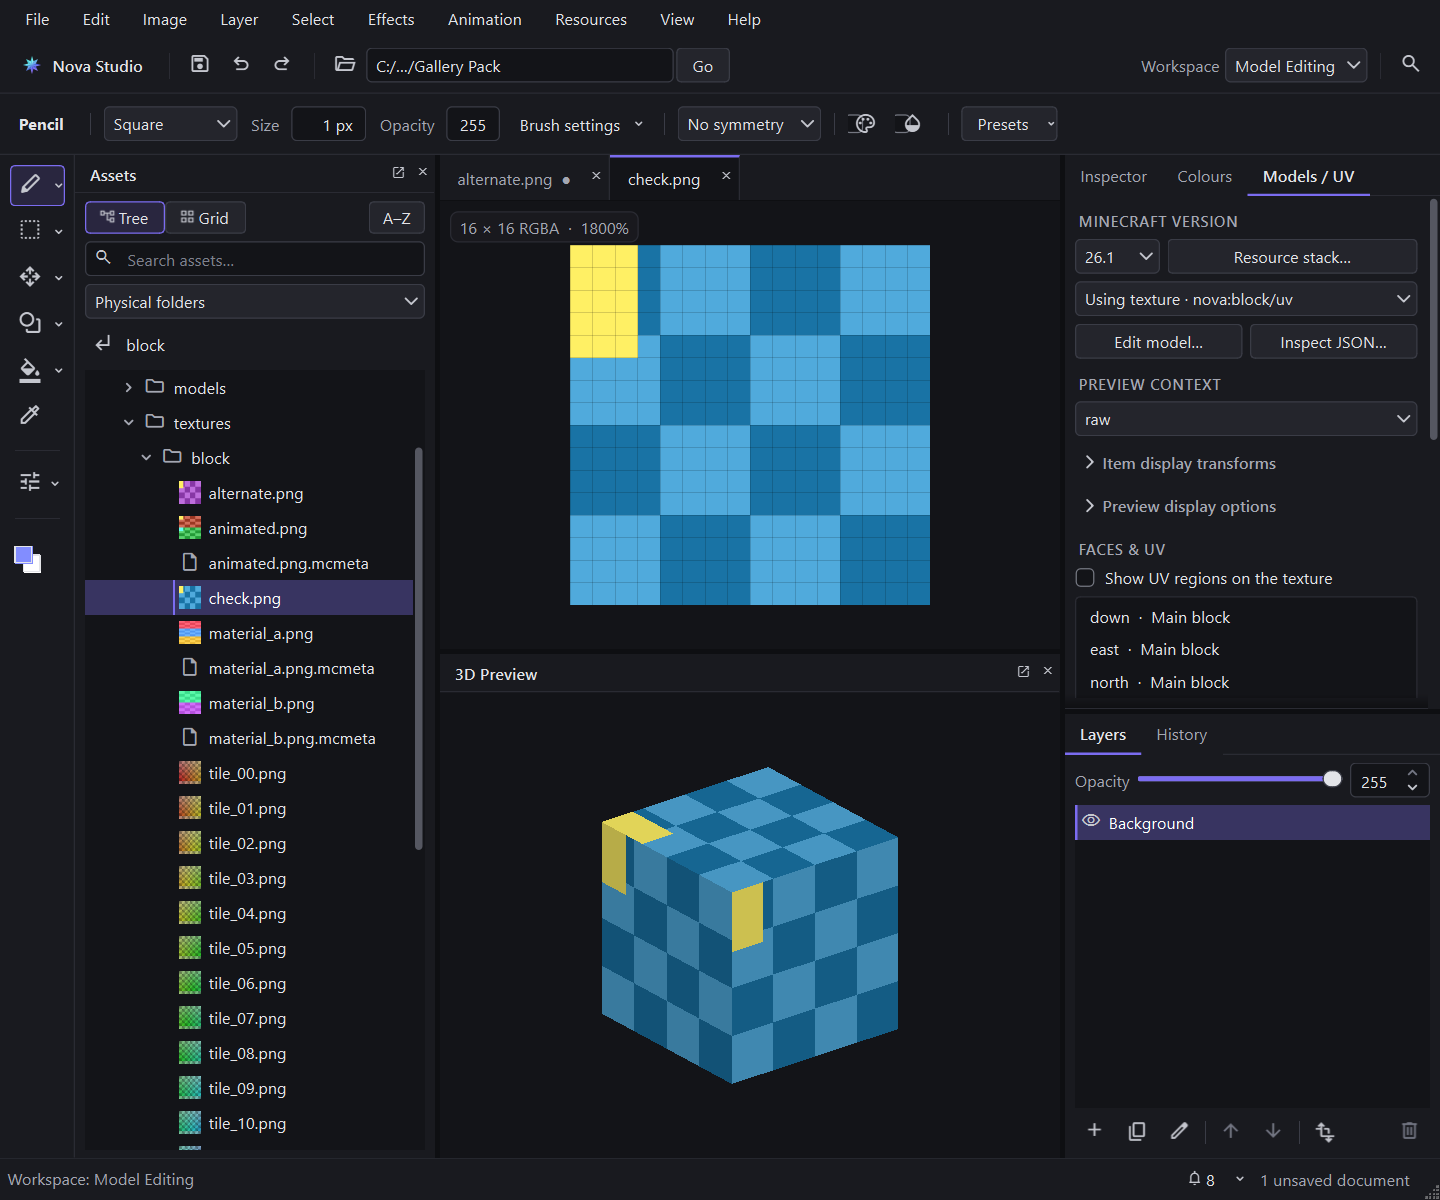
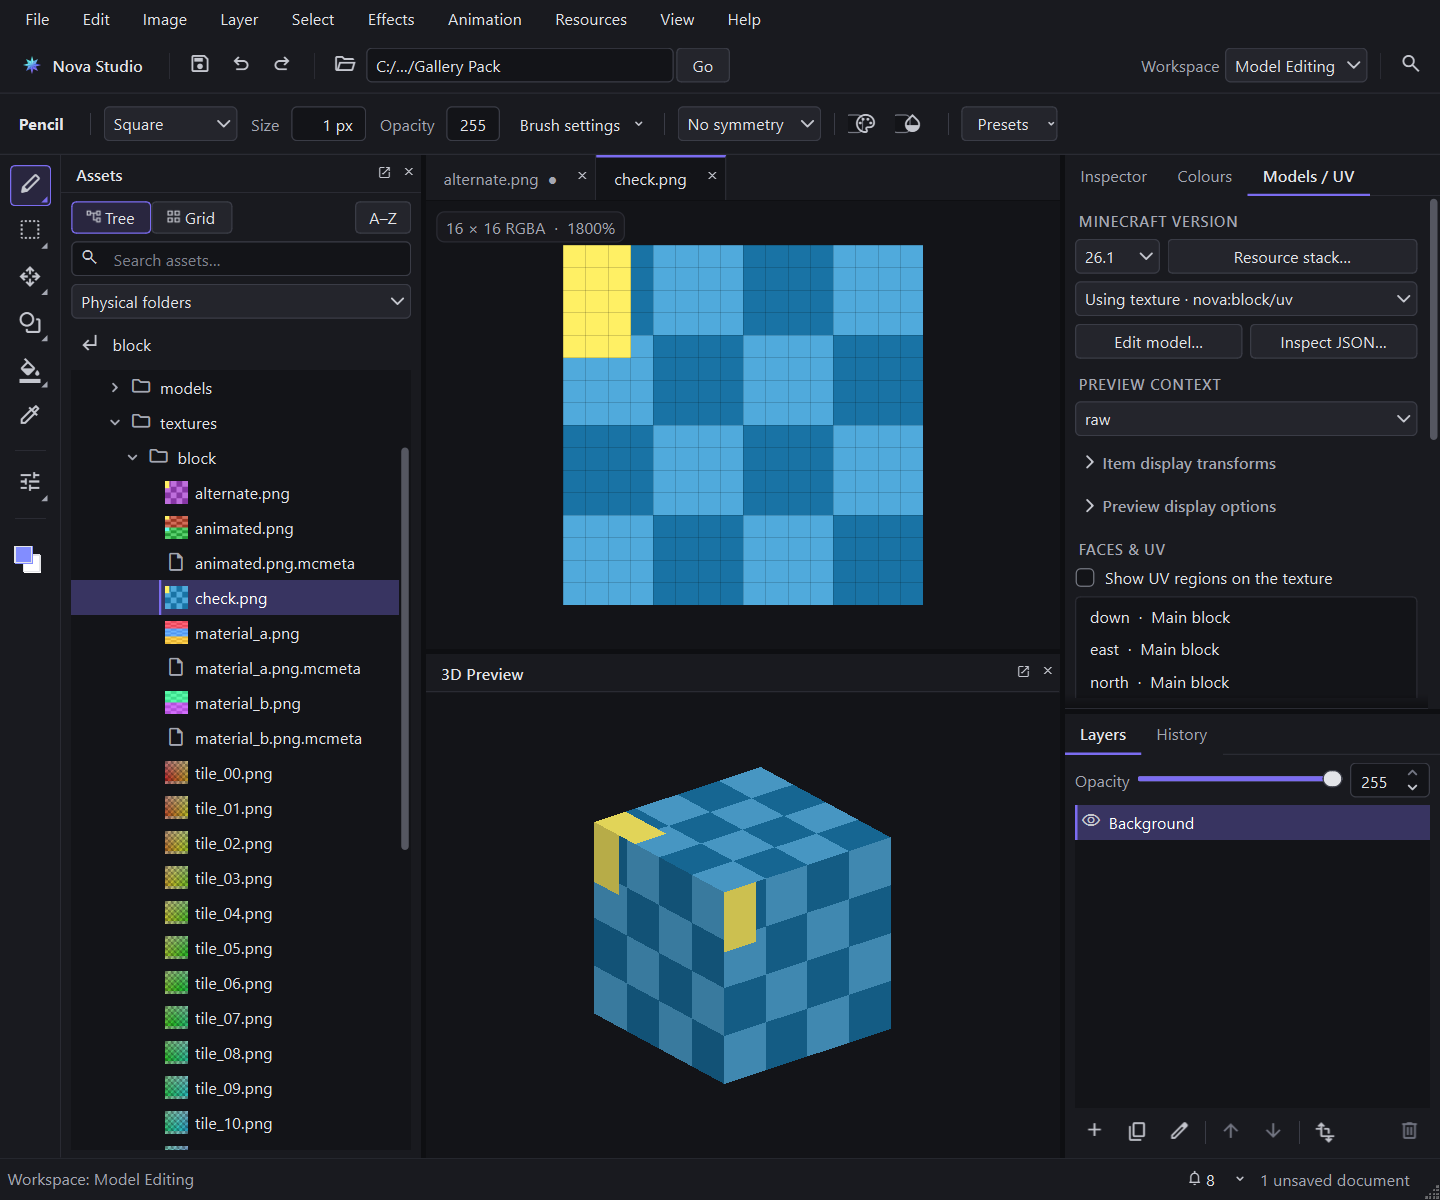
Mark grouped rail tools with corner triangles; slider-only popovers
Grouped tools and Effects are the same square as every other rail button,
marked by a small corner triangle instead of a split arrow segment; press and
hold, right-click, Alt+Down or the menu key opens the group. Every row of the
brush and onion-skin settings is a slider with an unstepped value box. Batch
output settings indent under their radio choice, Welcome's View all is a link,
and recent-pack paths abbreviate the home folder.

diff --git a/src/ui/tools.cpp b/src/ui/tools.cpp
@@ -177,6 +177,40 @@ void ToolState::applyBrushPreset(Tool t, const QJsonObject &p) {
 
 // ---------------------------------------------------------------- tool box
 namespace {
+// A rail button whose menu holds more tools. As in Photoshop, a small triangle in the
+// bottom-right corner marks it instead of a separate arrow segment, so every rail button is
+// the same square. Press and hold, right-click, Alt+Down or the menu key opens the menu.
+class ToolGroupButton : public QToolButton {
+  public:
+    using QToolButton::QToolButton;
+
+  protected:
+    void paintEvent(QPaintEvent *e) override {
+        QToolButton::paintEvent(e);
+        if (!menu())
+            return;
+        const auto &t = ui::current();
+        QPainter p(this);
+        p.setRenderHint(QPainter::Antialiasing);
+        p.setPen(Qt::NoPen);
+        p.setBrush(!isEnabled() ? t.disabled : isChecked() ? t.accent : t.muted);
+        const QPointF corner = QRectF(rect()).bottomRight() - QPointF(ui::SpaceXS + 1, ui::SpaceXS + 1);
+        const qreal size = 5;
+        p.drawPolygon(QPolygonF{corner, corner - QPointF(size, 0), corner - QPointF(0, size)});
+    }
+    void contextMenuEvent(QContextMenuEvent *e) override {
+        if (!menu())
+            return QToolButton::contextMenuEvent(e);
+        showMenu();
+    }
+    void keyPressEvent(QKeyEvent *e) override {
+        if (menu() && (e->key() == Qt::Key_Menu || (e->key() == Qt::Key_Down && e->modifiers() & Qt::AltModifier))) {
+            showMenu();
+            return;
+        }
+        QToolButton::keyPressEvent(e);
+    }
+};
 // Foreground/background chip at the foot of the tool strip (fast colour access).
 class ColorChip : public QWidget {
     ToolState *state;
@@ -258,7 +292,7 @@ ToolBox::ToolBox(ToolState *s, QWidget *parent) : QToolBar("Tools", parent), sta
         connect(a, &QAction::triggered, this, [this, t = info.tool] { state->setTool(t); });
         auto &button = groups[info.group];
         if (!button) {
-            button = new QToolButton(this);
+            button = new ToolGroupButton(this);
             button->setObjectName("toolGroup-" + info.group);
             button->setPopupMode(QToolButton::DelayedPopup);
             button->setAutoRaise(true);
@@ -268,14 +302,11 @@ ToolBox::ToolBox(ToolState *s, QWidget *parent) : QToolBar("Tools", parent), sta
         }
         button->menu()->addAction(a);
     }
-    for (auto button : std::as_const(groups)) {
-        if (button->menu()->actions().size() > 1)
-            button->setPopupMode(QToolButton::MenuButtonPopup);
-        else
+    for (auto button : std::as_const(groups))
+        if (button->menu()->actions().size() < 2)
             button->setMenu(nullptr);
-    }
     addSeparator();
-    effectsButton = new QToolButton(this);
+    effectsButton = new ToolGroupButton(this);
     effectsButton->setObjectName("effectsButton");
     effectsButton->setText("Effects");
     effectsButton->setProperty("novaIcon", "effects");
@@ -587,7 +618,7 @@ QWidget *ToolOptionsBar::paintPage() {
     form->setContentsMargins(ui::PanelPadding, ui::PanelPadding, ui::PanelPadding, ui::PanelPadding);
     form->setHorizontalSpacing(ui::SpaceXL);
     form->setVerticalSpacing(ui::SpaceL);
-    form->addRow("Height", height);
+    form->addRow("Height", ui::sliderField(height, "Height"));
     form->addRow("Hardness", ui::sliderField(hardness, "Hardness"));
     form->addRow("Spacing", ui::sliderField(spacing, "Spacing"));
     form->addRow("Smoothing", ui::sliderField(smoothing, "Smoothing"));

diff --git a/src/ui/theme.cpp b/src/ui/theme.cpp
@@ -49,6 +49,8 @@ QWidget *sliderField(QSpinBox *value, const QString &label) {
     slider->setMinimumWidth(96);
     value->setAccessibleName(label);
     value->setFixedWidth(SettingsValueWidth);
+    // The slider is the pointer control; the value box takes typing, arrows and the wheel.
+    value->setButtonSymbols(QAbstractSpinBox::NoButtons);
     row->addWidget(slider, 1);
     row->addWidget(value);
     field->setFocusProxy(value);
@@ -262,7 +264,6 @@ QString styleSheet(const Tokens &t) {
         "QToolBar#toolOptions QLabel#paintToolName,QToolBar#toolOptions QLabel#toolOptionsName{color:@text;font-weight:600;padding-left:2px;padding-right:6px}"
         "QToolBar#toolBox{border-bottom:0;border-right:1px solid @border;padding:@stripPadV @stripPadH}"
         "QToolBar#toolBox QToolButton{padding:@toolPad}"
-        "QToolBar#toolBox QToolButton[popupMode=\"1\"]{padding-right:@arrowReserve}"
         "QToolBar::separator{background:@border;width:1px;height:1px;margin:@sepMinor @sepMajor}"
         "QToolBar#toolBox::separator{margin:@sepTool @sepMinor}"
         "QStatusBar{background:@window;border-top:1px solid @border;color:@muted}"
@@ -325,6 +326,13 @@ QString styleSheet(const Tokens &t) {
         "QPushButton[role=\"icon\"]{padding:4px;min-width:18px;border-color:transparent;background:transparent}"
         "QPushButton[role=\"icon\"]:hover{background:@raised;border-color:transparent}"
         "QPushButton[role=\"icon\"]:disabled{background:transparent;border-color:transparent}"
+        // Link: a quiet text command beside a heading (no frame, no menu arrow). accentHover is
+        // the higher-contrast accent in both themes.
+        "QPushButton[role=\"link\"]{padding:2px 6px;border-color:transparent;background:transparent;color:@accentHover}"
+        "QPushButton[role=\"link\"]:hover{background:@accentMuted;border-color:transparent}"
+        "QPushButton[role=\"link\"]:focus{border-color:@accent}"
+        "QPushButton[role=\"link\"]:disabled{color:@disabled;background:transparent;border-color:transparent}"
+        "QPushButton[role=\"link\"]::menu-indicator{image:none;width:0}"
         "QPushButton::menu-indicator{subcontrol-origin:padding;subcontrol-position:center right;width:10px;"
         "right:-4px}"
         "QToolButton{border:@btnBorder solid transparent;border-radius:@rS;padding:@btnPad;background:transparent;"
@@ -339,9 +347,9 @@ QString styleSheet(const Tokens &t) {
         "QToolButton[popupMode=\"2\"]{padding-right:18px}"
         "QToolButton[popupMode=\"2\"]::menu-indicator{subcontrol-origin:padding;subcontrol-position:center right;"
         "right:4px;width:10px;height:10px}"
-        "QToolBar#toolBox QToolButton[popupMode=\"2\"]{padding:@toolPad;padding-right:@arrowReserve}"
-        "QToolBar#toolBox QToolButton[popupMode=\"2\"]::menu-indicator{subcontrol-origin:padding;"
-        "subcontrol-position:center right;right:2px;width:10px;height:10px}"
+        // Rail buttons mark a menu with a corner triangle (ToolGroupButton), not an arrow.
+        "QToolBar#toolBox QToolButton[popupMode=\"2\"]{padding:@toolPad}"
+        "QToolBar#toolBox QToolButton::menu-indicator{image:none;width:0;height:0}"
         "QToolButton[role=\"disclosure\"]{border:0;padding:4px 2px;font-weight:600;color:@muted}"
         "QToolButton[role=\"disclosure\"]:hover{color:@text;background:transparent}"
         "QToolButton[role=\"disclosure\"]:checked{background:transparent;color:@text}"

diff --git a/src/ui/timeline.cpp b/src/ui/timeline.cpp
@@ -262,19 +262,14 @@ TimelinePanel::TimelinePanel(DocumentSession *s, QWidget *parent) : QWidget(pare
     onionForm->setContentsMargins(ui::PanelPadding, ui::PanelPadding, ui::PanelPadding, ui::PanelPadding);
     onionForm->setHorizontalSpacing(ui::SpaceXL); onionForm->setVerticalSpacing(ui::SpaceL);
     auto onion = new QCheckBox("Show adjacent frames"); onion->setObjectName("onionEnabled"); onionForm->addRow(onion);
-    auto previous = new QSpinBox; previous->setRange(0, 8); previous->setValue(1); previous->setObjectName("onionPrevious"); onionForm->addRow("Previous frames", previous);
-    auto next = new QSpinBox; next->setRange(0, 8); next->setValue(1); next->setObjectName("onionNext"); onionForm->addRow("Next frames", next);
+    auto previous = new QSpinBox; previous->setRange(0, 8); previous->setValue(1); previous->setObjectName("onionPrevious"); onionForm->addRow("Previous frames", ui::sliderField(previous, "Onion skin previous frames"));
+    auto next = new QSpinBox; next->setRange(0, 8); next->setValue(1); next->setObjectName("onionNext"); onionForm->addRow("Next frames", ui::sliderField(next, "Onion skin next frames"));
     auto opacity = new QSpinBox; opacity->setRange(1, 100); opacity->setValue(25); opacity->setSuffix("%"); opacity->setObjectName("onionOpacity");
     auto opacityField = ui::sliderField(opacity, "Onion skin opacity");
     onionForm->addRow("Opacity", opacityField);
-    for (int row : {1, 2}) {
-        auto field = onionForm->itemAt(row, QFormLayout::FieldRole);
-        field->widget()->setFixedWidth(ui::SettingsValueWidth);
-        field->setAlignment(Qt::AlignRight);
-    }
     auto tint = new QCheckBox("Tint adjacent frames"); tint->setChecked(true); onionForm->addRow(tint);
     const auto syncOnionControls = [=](bool enabled) {
-        for (QWidget *control : std::initializer_list<QWidget *>{previous, next, opacityField, tint}) {
+        for (QWidget *control : std::initializer_list<QWidget *>{previous->parentWidget(), next->parentWidget(), opacityField, tint}) {
             control->setEnabled(enabled);
             if (auto label = onionForm->labelForField(control))
                 label->setEnabled(enabled);

diff --git a/src/ui/window.cpp b/src/ui/window.cpp
@@ -77,8 +77,8 @@ class RecentPackDelegate final : public QStyledItemDelegate {
         p->setFont(option.font);
         p->setPen(t.muted);
         p->drawText(text.adjusted(0, line + ui::SpaceXS, 0, 0), Qt::AlignVCenter,
-                    QFontMetrics(option.font).elidedText(QDir::toNativeSeparators(index.data(Qt::UserRole).toString()),
-                                                        Qt::ElideMiddle, text.width()));
+                    QFontMetrics(option.font).elidedText(index.data(Qt::UserRole + 2).toString(), Qt::ElideMiddle,
+                                                        text.width()));
         p->restore();
     }
 };
@@ -102,9 +102,15 @@ class EditorTabs : public QTabWidget {
                 continue;
             const auto path = action->text();
             const auto name = QFileInfo(path).fileName();
-            auto item = new QListWidgetItem(name + '\n' + QDir::toNativeSeparators(path), recentPacks);
+            // The home folder reads as "~", so the part of the path that differs stays visible.
+            auto shown = QDir::toNativeSeparators(path);
+            const auto home = QDir::toNativeSeparators(QDir::homePath());
+            if (shown.startsWith(home + QDir::separator(), Qt::CaseInsensitive))
+                shown = '~' + shown.mid(home.size());
+            auto item = new QListWidgetItem(name + '\n' + shown, recentPacks);
             item->setData(Qt::UserRole, path);
             item->setData(Qt::UserRole + 1, name);
+            item->setData(Qt::UserRole + 2, shown);
             item->setToolTip("Open pack: " + QDir::toNativeSeparators(path));
             item->setSizeHint({0, 2 * recentPacks->fontMetrics().lineSpacing() + 2 * ui::SpaceL + 2 * ui::SpaceXS});
         }
@@ -234,6 +240,7 @@ class EditorTabs : public QTabWidget {
         recentHeader->addWidget(recentTitle);
         recentHeader->addStretch();
         allRecent = new QPushButton("View all");
+        allRecent->setProperty("role", "link");
         allRecent->setMenu(recent);
         allRecent->setObjectName("welcomeRecent");
         recentHeader->addWidget(allRecent);

diff --git a/src/ui/batchdialog.cpp b/src/ui/batchdialog.cpp
@@ -355,17 +355,26 @@ BatchDialog::BatchDialog(BatchContext c, QWidget *parent) : QDialog(parent), con
     overwrite->setToolTip("Existing output files may be replaced; path conflicts are still checked");
     backup = ui::pathField(directory->text() + "-originals");
     backup->setObjectName("batchBackup");
+    // Each choice's settings sit under its radio, indented to the radio's label.
+    const int indent = toDirectory->style()->pixelMetric(QStyle::PM_ExclusiveIndicatorWidth, nullptr, toDirectory) +
+                       toDirectory->style()->pixelMetric(QStyle::PM_RadioButtonLabelSpacing, nullptr, toDirectory);
+    const auto dependent = [indent](const QString &text) {
+        auto label = new QLabel(text);
+        label->setIndent(indent);
+        return label;
+    };
     auto grid = new QGridLayout;
     grid->addWidget(toDirectory, 0, 0, 1, 3);
-    grid->addWidget(new QLabel("Folder"), 1, 0);
+    grid->addWidget(dependent("Folder"), 1, 0);
     grid->addWidget(directory, 1, 1);
     grid->addWidget(browse, 1, 2);
-    grid->addWidget(new QLabel("Name pattern"), 2, 0);
+    grid->addWidget(dependent("Name pattern"), 2, 0);
     grid->addWidget(pattern, 2, 1, 1, 2);
     grid->addWidget(overwrite, 3, 1, 1, 2);
-    grid->addWidget(inPlace, 4, 0, 1, 3);
-    grid->addWidget(new QLabel("Backups"), 5, 0);
-    grid->addWidget(backup, 5, 1, 1, 2);
+    grid->setRowMinimumHeight(4, ui::SpaceL); // a gap between the two choices
+    grid->addWidget(inPlace, 5, 0, 1, 3);
+    grid->addWidget(dependent("Backups"), 6, 0);
+    grid->addWidget(backup, 6, 1, 1, 2);
     ov->addLayout(grid);
     auto runRow = new QHBoxLayout;
     dryRun = new QPushButton("Dry run");

diff --git a/docs/design/DESIGN_SYSTEM.md b/docs/design/DESIGN_SYSTEM.md
@@ -99,6 +99,7 @@ document at 1280×900.
 | Text field, spin box, combo box | Plain Qt widgets; `NovaStyle` draws the shared field well and chevrons |
 | Checkbox, radio | Plain Qt widgets; `NovaStyle` draws rounded accent indicators |
 | Section title | `ui::sectionTitle("Document")` |
+| Text command beside a heading | `QPushButton[role="link"]`: frameless `accentHover` text that tints `accentMuted` on hover; a menu on it opens without a drop-down arrow (Welcome's "View all") |
 | Hint / secondary text | `ui::hint(text)`, or `QLabel[role="hint"]` |
 | Status value | `QLabel[role="warning"]` (needs attention, e.g. unsaved), `"error"`, or `"info"` (an available action, e.g. an export update) |
 | Empty state | `ui::emptyState(text, parent, icon)`: centred text with an optional large muted Material glyph above it |
@@ -108,9 +109,10 @@ document at 1280×900.
 | Icon toggle | `QCheckBox[role="toggle"]` with an icon and no text: a raised square that fills `accentMuted` with an `accent` edge when checked |
 | Secondary settings | `ui::settingsMenu(button, content)`: a native menu hosting a form with `PanelPadding`, `SpaceXL` between columns and `SpaceL` between rows. Keep routine controls on the working row; label the settings button by its task. |
 | Path field | `ui::pathField(text)`: a native line edit that preserves the first and final path segments when unfocused. Editing and `text()` retain the entire path; the tooltip shows it in full. |
-| Continuous numeric setting | `ui::sliderField(spinBox, label)`: a native slider paired with the exact editable value; both stay synchronized and carry the same accessible name. |
+| Continuous numeric setting | `ui::sliderField(spinBox, label)`: a native slider paired with the exact editable value; both stay synchronized and carry the same accessible name. The value box has no step buttons (the slider is the pointer control). Every row of a settings popover uses it, so values line up in one column. |
 | Scrolling panel | `ui::addScrollFade(area)`: a soft edge shadow and hairline mark more content below. A row the edge would cut in half is hidden whole, so a panel never ends on half a heading. |
 | Card gutter | `QSplitter[role="gutter"]` for wide handles between cards: empty space that tints `accentMuted` on hover |
+| Settings of a radio choice | Under the radio, with their labels indented to the radio's text (indicator width plus label spacing), and a `SpaceL` gap before the next choice (see Batch output) |
 | Empty list with a first action | Put the action (a primary button) inside the empty state, and hide the list's edit bar until the list has rows (see the batch operation stack). |
 
 Rules that a stylesheet cannot express live in `NovaStyle` (`theme.cpp`). These are field
@@ -158,8 +160,11 @@ every user's muscle memory agree on where the tools are. View › Panels › Too
 still hides and shows it. Workspace layouts saved by earlier builds, in which the strip
 could move, restore with the rail on the left and the rest of their arrangement intact.
 The rail chooses the tool; the Tool Options row above the canvas edits it. The colour
-wells share the 30px tool target. Split buttons group tool variants without extra
-separators; rules separate Effects and the colour wells.
+wells share the 30px tool target. A button that groups tool variants (and Effects) is the
+same square as every other rail button, marked by a small triangle in its bottom-right
+corner (`muted`, or `accent` when checked) rather than a separate arrow segment. Press and
+hold, right-click, Alt+Down or the menu key opens its menu; every variant also has its own
+shortcut and an Edit › Tool menu entry. Rules separate Effects and the colour wells.
 
 ## Checking a change
 

diff --git a/docs/design/UI_POLISH_REVIEW.md b/docs/design/UI_POLISH_REVIEW.md
@@ -2,7 +2,32 @@
 
 Independent screenshot reviews. Reviewers receive the same captures and rubric; they do not receive other scores. Scores are subjective and are not averaged into approval. Every participating reviewer must give at least 9/10 overall.
 
-## Latest completed combined review: 26
+## Latest completed combined review: 27
+
+| Model | Hierarchy | Colour | Type | Spacing | Controls | Icons | Consistency | Overall |
+| --- | ---: | ---: | ---: | ---: | ---: | ---: | ---: | ---: |
+| opencode/glm-5.3-flash-free | 6 | 7 | 6 | 6 | 6 | 6 | 7 | 6 |
+| zai-coding-plan/glm-5.3-flash | 7 | 8 | 7 | 6 | 7 | 6 | 8 | 7 |
+| opencode/longcat-2.5-free | 8 | 7 | 7 | 7 | 7 | 7 | 6 | 7 |
+| opencode/minimax-m3.1-flash-free | 7 | 7 | 6 | 6 | 6 | 6 | 5 | 6 |
+| opencode/inkling-2-small-free | 8 | 8 | 7 | 7 | 8 | 7 | 8 | 8 |
+| codex/gpt-6.1-terra | 7 | 7 | 7 | 6 | 7 | 6 | 7 | 7 |
+
+**Acceptance remains unmet.** First review of the fixed left rail; GPT-6.1 Terra rejoins
+at the user's request, and all six reviewers finished inside five minutes. The rail's
+split-button arrows (on grouped tools only) read as doubled, uneven controls, and the brush
+popover's Height row lacked the slider its siblings had. The next pass marks grouped tools
+with a Photoshop-style corner triangle instead of an arrow segment, so every rail button is
+the same square and the rail is narrower (press and hold, right-click, Alt+Down or the menu
+key opens the group). Every settings-popover row is now a slider with an unstepped value
+box. Batch output settings indent under their radio choice; Welcome's "View all" becomes a
+link-styled command, and recent-pack paths abbreviate the home folder to `~`.
+
+Several reviewer claims conflict with the captures and are not treated as defects: rail
+icons are `#c4c6ce` on the dark rail and `#3d414b` on the light one (not "near-invisible");
+the onion-skin Opacity slider is grey because its master switch is off.
+
+## Combined review: 26
 
 | Model | Hierarchy | Colour | Type | Spacing | Controls | Icons | Consistency | Overall |
 | --- | ---: | ---: | ---: | ---: | ---: | ---: | ---: | ---: |
@@ -156,9 +181,11 @@ Round 14 included consistent dock-body surfaces, more vertical room for colour c
 | 24 | whole application and all six toolbar placements; OpenCode reviewers only | GLM free: 7; GLM z.ai: 7; MiniMax: 6; Inkling: 7; LongCat: five-minute limit; Kimi: no review |
 | 25 | tool name on every options row, framed floating strip | GLM free: 7; GLM z.ai: 7; MiniMax: 6; Inkling: 8; LongCat: five-minute limit; Kimi: no review |
 | 26 | one primary Batch action, right-rail hairline facing the canvas | GLM free: 7; GLM z.ai: 7; MiniMax: 6; Inkling: 7; LongCat: five-minute limit |
+| 27 | fixed left tool rail, matching status text | GLM free: 6; GLM z.ai: 7; LongCat: 7; MiniMax: 6; Inkling: 8; Terra: 7 |
 
 ## Verification
 
+- Corner-triangle rail, slider popovers and indented Batch output: the complete regression run (MCP excluded) passed 66/66 suites in 326.98 seconds.
 - Fixed tool rail checkpoint: the complete regression run (MCP excluded) passed 66/66 suites in 326.31 seconds with process-local `TEMP`/`TMP` at `build/t`, including the rewritten `tool-strip` suite at 100%, 150% and 200% scaling. The status bar's message now uses the body size, like its labels.
 - Native Qt gallery: dark/light, welcome/editor, selection, animation, models, batch, palette and settings. Gallery/test windows use the secondary portrait display.
 - Targeted workspace, tool-strip (including 150% and 200%), editor GUI and tool-options checks: 6/6 passed.
